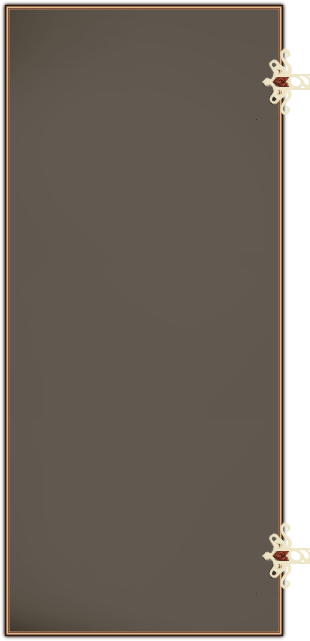
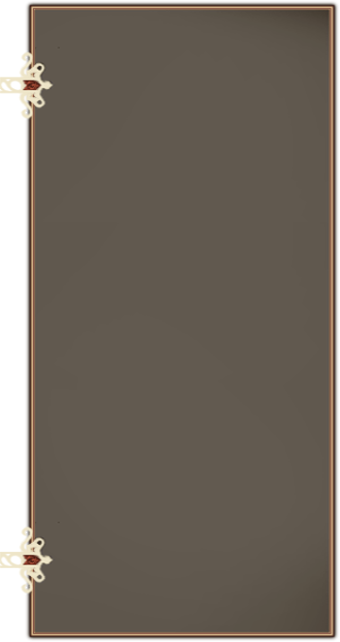
added side panel

Changed region(s): [[0.8419, 0.0, 1.0, 0.9984], [0.0, 0.0, 0.1452, 0.9984]]

diff --git a/RiD_RPGproject/RiD_RPGproject/Battle/GUI.cpp b/RiD_RPGproject/RiD_RPGproject/Battle/GUI.cpp
@@ -5,11 +5,13 @@
 namespace RTBGUI
 {
 	GUI::GUI(sf::RenderWindow& window) :
-		_window(&window)
+		_window(&window), _show_left_panel(true)
 	{
 		_window_border = std::make_unique<WindowBorder>();
 		_menu = std::make_unique<Menu>();
 		_cursor = std::make_unique<Cursor>();
+		_panel = std::make_unique<Panel>();
+		_book = std::make_shared<BookButton>();
 		_button_yes = std::make_shared<Button>("YES");
 		_button_no = std::make_shared<Button>("NO");
 		_button_ok = std::make_shared<Button>(" OK");
@@ -71,6 +73,13 @@ namespace RTBGUI
 			if (_button_ok->getSprite().getGlobalBounds().contains(worldPos))
 				_button_ok->setHovered(true);
 		}
+		else if (!is_paused)
+		{
+			_book->update(sf::Vector2f(center.x + 560.f, center.y - 335.f));
+			if (_book->getSprite().getGlobalBounds().contains(worldPos))
+				_book->setHovered(true);
+			_panel->update(sf::Vector2f(center.x - 636.f, center.y - 321.f));
+		}
 	}
 
 	void GUI::render(bool& is_paused, bool& is_surrendered, bool ally_team_dead, bool enemy_team_dead)
@@ -101,6 +110,12 @@ namespace RTBGUI
 			_button_ok->render(_window);
 			_message_won->render(_window);
 		}
+		else if (!is_paused)
+		{
+			_book->render(_window);
+			if (_show_left_panel)
+				_panel->render(_window);
+		}
 		_cursor->render(_window);
 	}
 
@@ -112,6 +127,16 @@ namespace RTBGUI
 	void GUI::setCameraCenter(sf::Vector2f center)
 	{
 		_camera.setCenter(center);
+	}
+
+	void GUI::showLeftPanel(bool show)
+	{
+		_show_left_panel = show;
+	}
+
+	bool GUI::isLeftPanelShown()
+	{
+		return _show_left_panel;
 	}
 
 	sf::View GUI::getCamera()
@@ -132,5 +157,10 @@ namespace RTBGUI
 	std::shared_ptr<Button> GUI::getButtonOk()
 	{
 		return _button_ok;
+	}
+
+	std::shared_ptr<BookButton> GUI::getButtonBook()
+	{
+		return _book;
 	}
 }

diff --git a/RiD_RPGproject/RiD_RPGproject/Battle/RealTimeBattle.cpp b/RiD_RPGproject/RiD_RPGproject/Battle/RealTimeBattle.cpp
@@ -48,13 +48,13 @@ namespace RTB
 			position.y = enemy_position_width(RNG) * 25;
 			position = _tile_map->_twoDToIso(position);
 			(*iterator)->setPosition({ position.x,position.y });
-			while (_checkPlacementCollisions(iterator))
+			/*while (_checkPlacementCollisions(iterator))
 			{
 				position.x = enemy_position_height(RNG) * 25;
 				position.y = enemy_position_width(RNG) * 25;
 				position = _tile_map->_twoDToIso(position);
 				(*iterator)->setPosition({ position.x,position.y });
-			}
+			}*/
 		}
 
 		for (unsigned short i = 0; i < 7; ++i)
@@ -76,13 +76,13 @@ namespace RTB
 			position.y = ally_position_width(RNG) * 25;
 			position = _tile_map->_twoDToIso(position);
 			(*iterator)->setPosition({ position.x,position.y });
-			while (_checkPlacementCollisions(iterator))
+			/*while (_checkPlacementCollisions(iterator))
 			{
 				position.x = ally_position_height(RNG) * 25;
 				position.y = ally_position_width(RNG) * 25;
 				position = _tile_map->_twoDToIso(position);
 				(*iterator)->setPosition({ position.x,position.y });
-			}
+			}*/
 		}
 	}
 
@@ -237,6 +237,13 @@ namespace RTB
 						while(!(*_choosen_ally)->isAlive())
 							_choosen_ally = _pickRandomAlly();
 						_is_ally_choosen = true;
+					}
+					else if (_event.mouseButton.button == sf::Mouse::Right && _user_interface->getButtonBook()->getSprite().getGlobalBounds().contains(worldPos) && !_is_paused)
+					{
+						if (_user_interface->isLeftPanelShown())
+							_user_interface->showLeftPanel(false);
+						else
+							_user_interface->showLeftPanel(true);
 					}
 				}
 				if (_event.type == sf::Event::LostFocus)

diff --git a/RiD_RPGproject/RiD_RPGproject/Battle/GUI.h b/RiD_RPGproject/RiD_RPGproject/Battle/GUI.h
@@ -6,6 +6,8 @@
 #include "Menu.h"
 #include "Message.h"
 #include "Cursor.h"
+#include "BookButton.h"
+#include "Panel.h"
 
 namespace RTBGUI
 {
@@ -16,12 +18,15 @@ namespace RTBGUI
 		std::unique_ptr<Cursor> _cursor;
 		std::shared_ptr<Button> _button_yes, _button_no, _button_ok;
 		std::unique_ptr<WindowBorder> _window_border;
+		std::unique_ptr<Panel> _panel;
 		std::unique_ptr<Menu> _menu;
 		std::unique_ptr<Message> _message_menu, _message_lost, _message_won;
+		std::shared_ptr<BookButton> _book;
 		RiD::AssetManager _asset_manager;
 		sf::Sprite _menu_background, _lost_background, _won_background;
 		sf::View _camera, _gui;
 		sf::Event _event;
+		bool _show_left_panel;
 	public:
 		GUI(sf::RenderWindow& window);
 		~GUI();
@@ -34,6 +39,10 @@ namespace RTBGUI
 
 		void setCameraCenter(sf::Vector2f center);
 
+		void showLeftPanel(bool show);
+
+		bool isLeftPanelShown();
+
 		sf::View getCamera();
 
 		std::shared_ptr<Button> getButtonNo();
@@ -41,5 +50,7 @@ namespace RTBGUI
 		std::shared_ptr<Button> getButtonYes();
 
 		std::shared_ptr<Button> getButtonOk();
+
+		std::shared_ptr<BookButton> getButtonBook();
 	};
 }

diff --git a/RiD_RPGproject/RiD_RPGproject/Battle/BookButton.cpp b/RiD_RPGproject/RiD_RPGproject/Battle/BookButton.cpp
@@ -4,15 +4,38 @@
 
 namespace RTBGUI
 {
-	RTBGUI::BookButton::BookButton()
+	RTBGUI::BookButton::BookButton():
+		_is_hovered(false)
 	{
+		_asset_manager.setTexture("book", "img/controls.png");
+		_asset_manager.setTexture("book_hovered", "img/controlsPreLight.png");
+		_book.setTexture(_asset_manager.getTexture("book"));
+		_book_hovered.setTexture(_asset_manager.getTexture("book_hovered"));
 	}
 
-	void RTBGUI::BookButton::update()
+	void RTBGUI::BookButton::update(sf::Vector2f position)
 	{
+		_book.setPosition(position);
+		_book_hovered.setPosition(position);
 	}
 
-	void RTBGUI::BookButton::render()
+	void RTBGUI::BookButton::render(sf::RenderWindow*& window)
 	{
+		if (_is_hovered)
+			window->draw(_book_hovered);
+		else
+			window->draw(_book);
+
+		_is_hovered = false;
+	}
+
+	void BookButton::setHovered(bool hover)
+	{
+		_is_hovered = hover;
+	}
+
+	sf::Sprite BookButton::getSprite()
+	{
+		return _book;
 	}
 }

diff --git a/RiD_RPGproject/RiD_RPGproject/Battle/Panel.cpp b/RiD_RPGproject/RiD_RPGproject/Battle/Panel.cpp
@@ -1,0 +1,27 @@
+#pragma once
+
+#include "Panel.h"
+
+namespace RTBGUI
+{
+	Panel::Panel()
+	{
+		std::string message = "          Controls\n\n\n    Walking:\n    W,S,A,D\n    Sword:\n    Space\n    Bow:\n    LMB\n    Open/Cloce this window:\n    RMB on the book\n    Pause:\n    Escape\n    Spectator(while dead):\n    LMB";
+		_asset_manager.setTexture("panel", "img/Panel.png");
+		_panel.setTexture(_asset_manager.getTexture("panel"));
+
+		_message = std::make_unique<Message>(message, 28);
+	}
+
+	void Panel::update(sf::Vector2f position)
+	{
+		_panel.setPosition(position);
+		_message->update(sf::Vector2f(position.x, position.y + 10.f));
+	}
+
+	void Panel::render(sf::RenderWindow*& window)
+	{
+		window->draw(_panel);
+		_message->render(window);
+	}
+}

diff --git a/RiD_RPGproject/RiD_RPGproject/Battle/BookButton.h b/RiD_RPGproject/RiD_RPGproject/Battle/BookButton.h
@@ -7,13 +7,18 @@ namespace RTBGUI
 	class BookButton
 	{
 	private:
-		sf::Sprite _book;
+		sf::Sprite _book, _book_hovered;
 		RiD::AssetManager _asset_manager;
+		bool _is_hovered;
 	public:
 		BookButton();
 
-		void update();
+		void update(sf::Vector2f position);
 
-		void render();
+		void render(sf::RenderWindow*& window);
+
+		void setHovered(bool hover);
+
+		sf::Sprite getSprite();
 	};
 }

diff --git a/RiD_RPGproject/RiD_RPGproject/Battle/Panel.h b/RiD_RPGproject/RiD_RPGproject/Battle/Panel.h
@@ -1,0 +1,20 @@
+#pragma once
+
+#include "Message.h"
+
+namespace RTBGUI
+{
+	class Panel
+	{
+	private:
+		sf::Sprite _panel;
+		std::unique_ptr<Message> _message;
+		RiD::AssetManager _asset_manager;
+	public:
+		Panel();
+
+		void update(sf::Vector2f position);
+
+		void render(sf::RenderWindow*& window);
+	};
+}
